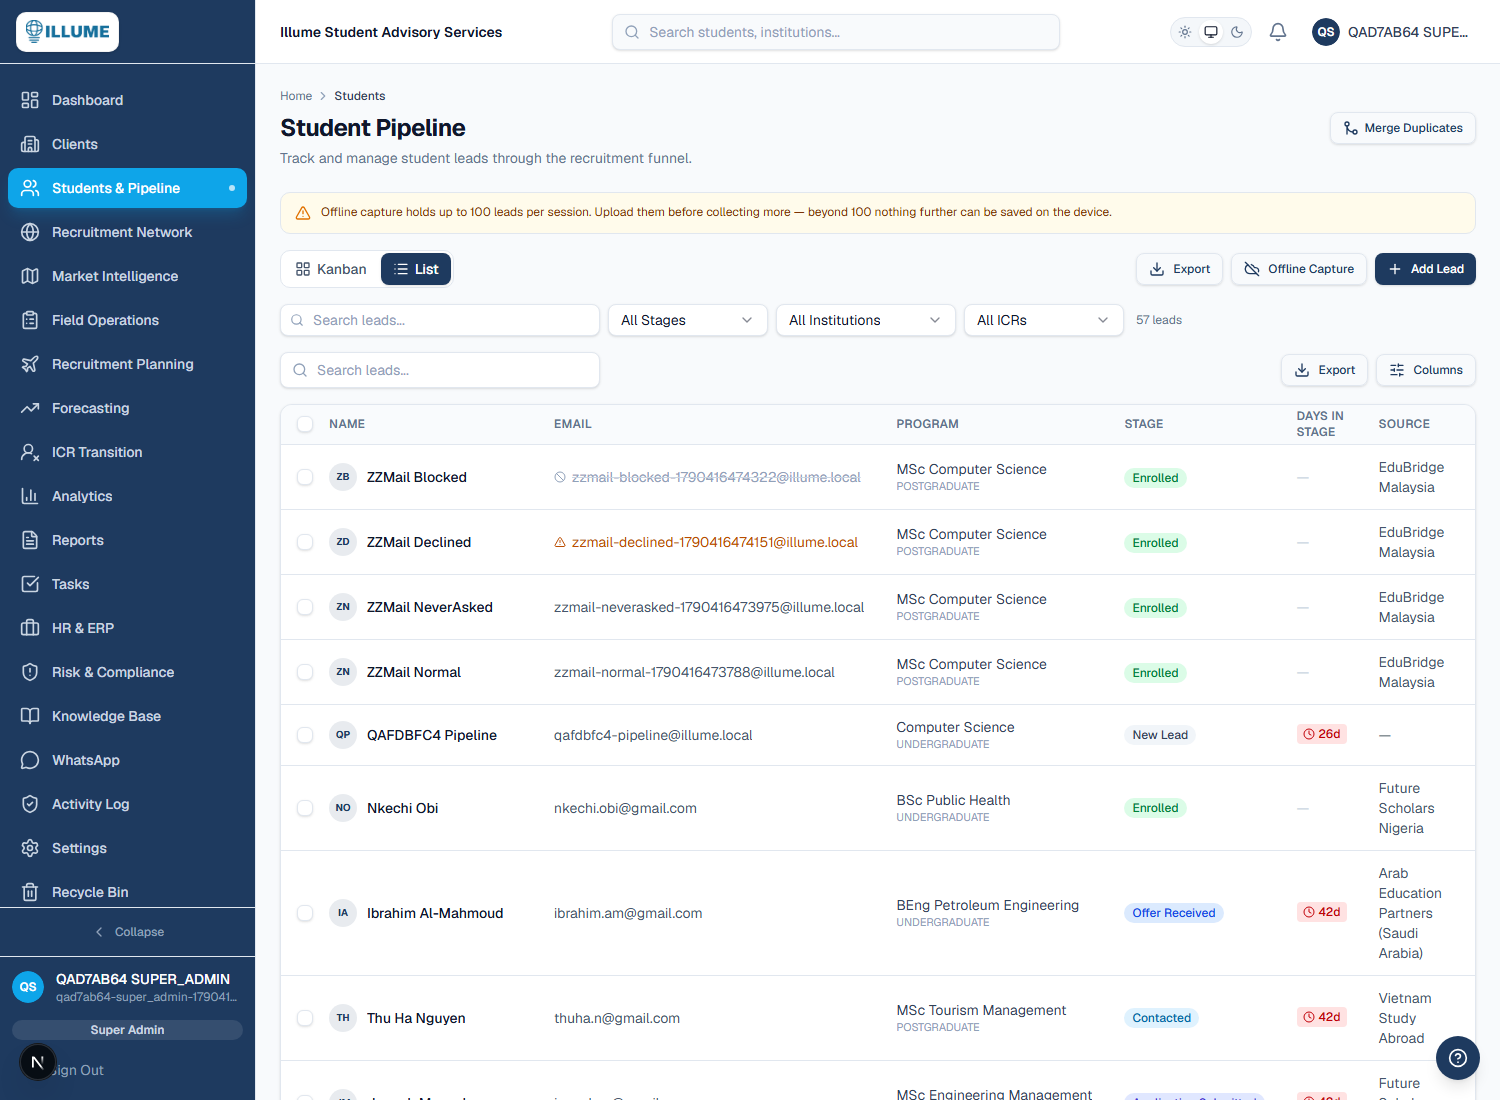
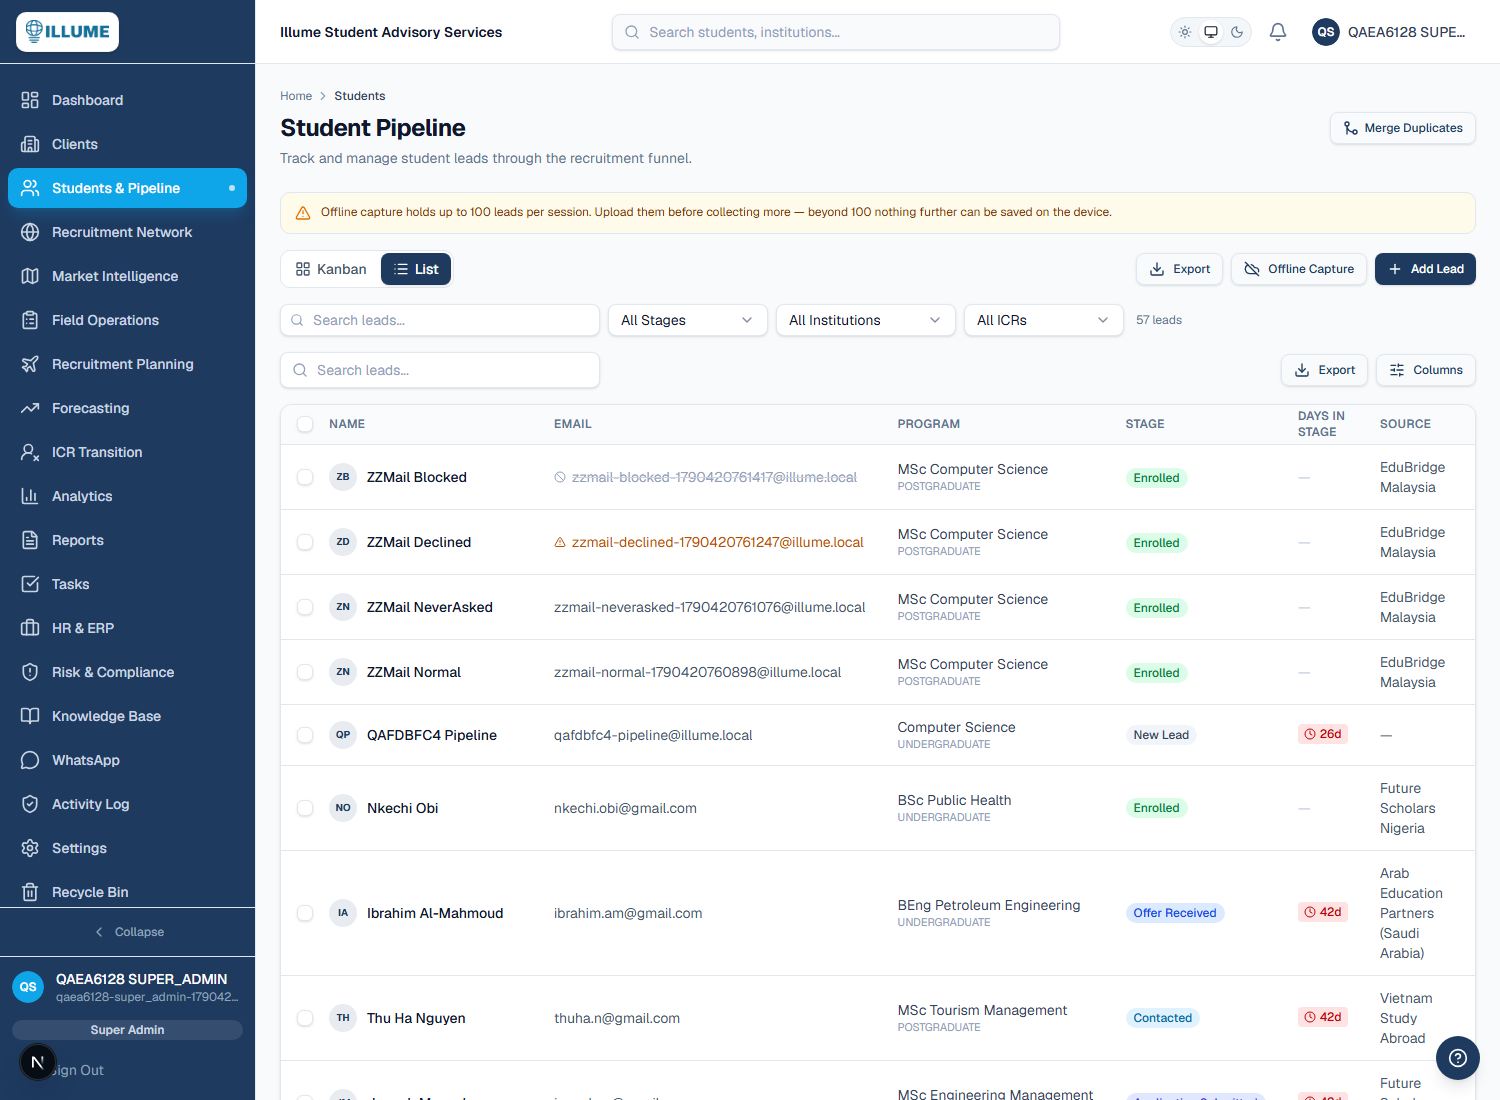
Offer the mail-client affordance everywhere an address appears (#144)
Swept every .tsx for a contactable address rendered as plain text. Eight models
carry an email; only Lead carries CASL consent. That split decides the design.

STUDENTS — the gate had a hole, and this was the priority.

/search and the analytics drill-down both rendered a student's address as plain
text. Not a breach today, because neither was clickable — but a do-not-contact
student looked identical to anyone else on those screens while appearing struck
through on /students. A rule that holds on one screen and not another is the
same as not holding. Both now use the gated component.

The drill-down needed two fields adding to /api/leads' select, which omitted
them. No disclosure risk: a caller already receiving the address is entitled to
the consent flag attached to it.

COLLEAGUES AND BUSINESS CONTACTS — new shared components/shared/email-link.tsx.

No consent gate, deliberately: none of those models carries consent data, and
under CASL an existing business relationship carries implied consent for
messages about that relationship — which is the only reason a rep holds a
university contact's or an agent's address at all.

That makes the component dangerous in the wrong place, so it takes a `kind` of
"colleague" or "business". Not decoration: it forces each call site to say
which case applies, keeps the reasoning where someone will read it, and gives a
future opt-out field an obvious home.

Wired: university contacts, partner contacts, school counsellors, the HR staff
[…]

diff --git a/components/shared/email-link.tsx b/components/shared/email-link.tsx
@@ -1,0 +1,63 @@
+import { Mail } from "lucide-react";
+
+/**
+ * A contactable address, rendered as a `mailto:` so it opens the reader's own
+ * mail client.
+ *
+ * ★ THIS COMPONENT IS FOR COLLEAGUES AND BUSINESS CONTACTS ONLY.
+ *
+ * It has NO consent gate, and that is deliberate — but it makes the component
+ * dangerous in the wrong place. A STUDENT's address must never be rendered
+ * through it. Students carry CASL consent on the record (`doNotContact`,
+ * `marketingConsent`, three-valued and asked at capture) and have their own
+ * component,
+ * `app/(dashboard)/students/[id]/_components/email-student-button.tsx`, which
+ * blocks or warns accordingly. Using this one for a Lead would silently make a
+ * do-not-contact student one click away from being contacted.
+ *
+ * `kind` exists to keep that reasoning visible at every call site rather than
+ * buried here, and to give a future consent field an obvious home:
+ *
+ *   "colleague"  another Illume user. No consent question arises at all.
+ *
+ *   "business"   a university contact, partner agent or school counsellor.
+ *                None of those models carries consent data today, and under
+ *                CASL an existing business relationship carries implied
+ *                consent for messages about that relationship — which is the
+ *                only reason a rep has the address. If any of those models
+ *                ever gains an opt-out, this is where it gets read.
+ */
+export function EmailLink({
+  email,
+  kind,
+  className,
+  showIcon = false,
+}: {
+  email: string | null | undefined;
+  /** Documents WHY no consent gate applies here. See the note above. */
+  kind: "colleague" | "business";
+  className?: string;
+  showIcon?: boolean;
+}) {
+  if (!email) {
+    return <span className={className ?? "text-slate-400 dark:text-slate-600"}>—</span>;
+  }
+
+  return (
+    <a
+      href={`mailto:${encodeURIComponent(email)}`}
+      // The row or card around this is often itself a link or a click target;
+      // without this, one click opens the record AND the mail client.
+      onClick={(e) => e.stopPropagation()}
+      title={kind === "colleague" ? `Email ${email}` : `Email ${email}`}
+      className={[
+        "inline-flex items-center gap-1.5 hover:underline",
+        "hover:text-[#1E3A5F] dark:hover:text-sky-400 transition-colors",
+        className ?? "",
+      ].join(" ")}
+    >
+      {showIcon && <Mail className="h-3 w-3 shrink-0" aria-hidden />}
+      <span className="truncate">{email}</span>
+    </a>
+  );
+}

diff --git a/app/(dashboard)/analytics/_components/drill-down-sheet.tsx b/app/(dashboard)/analytics/_components/drill-down-sheet.tsx
@@ -1,6 +1,7 @@
 "use client";
 
 import { useEffect, useState } from "react";
+import { EmailStudentLink } from "@/app/(dashboard)/students/[id]/_components/email-student-button";
 import { useRouter } from "next/navigation";
 import {
   Dialog,
@@ -23,6 +24,10 @@ interface LeadRow {
   nationality: string;
   countryOfResidence: string;
   interestedProgram: string;
+  /// Returned by /api/leads so this list can apply the same consent rules as
+  /// /students. Three-valued on marketingConsent: null means nobody asked.
+  doNotContact: boolean;
+  marketingConsent: boolean | null;
   institution?: { name: string } | null;
   assignedICR?: { name: string | null } | null;
   createdAt: string;
@@ -108,7 +113,13 @@ export function DrillDownSheet({
                         <ExternalLink className="h-3 w-3 text-slate-300 dark:text-slate-600 group-hover:text-slate-500 dark:group-hover:text-slate-400 shrink-0 transition-colors" />
                       </div>
                       <p className="text-xs text-slate-500 dark:text-slate-400 truncate mt-0.5">
-                        {lead.email} · {lead.interestedProgram}
+                        <EmailStudentLink
+                          email={lead.email}
+                          doNotContact={lead.doNotContact}
+                          marketingConsent={lead.marketingConsent}
+                        />
+                        {" · "}
+                        {lead.interestedProgram}
                       </p>
                       <p className="text-xs text-slate-400 dark:text-slate-500 mt-0.5">
                         {lead.countryOfResidence}

diff --git a/app/(dashboard)/search/page.tsx b/app/(dashboard)/search/page.tsx
@@ -1,4 +1,5 @@
 import { auth } from "@/lib/auth";
+import { EmailStudentLink } from "@/app/(dashboard)/students/[id]/_components/email-student-button";
 import { db } from "@/lib/db";
 import { redirect } from "next/navigation";
 import Link from "next/link";
@@ -111,7 +112,17 @@ export default async function SearchPage({
                   <CardContent className="p-4 flex items-center justify-between gap-3">
                     <div className="min-w-0">
                       <p className="font-medium truncate">{displayName(lead)}</p>
-                      <p className="text-xs text-muted-foreground truncate">{lead.email}</p>
+                      {/* Gated, not plain text. Search shows the same students
+                          as /students, so a do-not-contact student must look
+                          the same here — otherwise the rule holds on one screen
+                          and not the other, which is the same as not holding. */}
+                      <p className="text-xs text-muted-foreground truncate">
+                        <EmailStudentLink
+                          email={lead.email}
+                          doNotContact={lead.doNotContact}
+                          marketingConsent={lead.marketingConsent}
+                        />
+                      </p>
                       {lead.nationality && (
                         <p className="text-xs text-muted-foreground">{lead.nationality}</p>
                       )}

diff --git a/app/(dashboard)/settings/_components/users-tab.tsx b/app/(dashboard)/settings/_components/users-tab.tsx
@@ -1,6 +1,7 @@
 "use client";
 
 import { useEffect, useState } from "react";
+import { EmailLink } from "@/components/shared/email-link";
 import { DataTable } from "@/components/shared/data-table";
 import { Badge } from "@/components/ui/badge";
 import { Button } from "@/components/ui/button";
@@ -228,7 +229,9 @@ export function UsersSettingsTab() {
           </Avatar>
           <div>
             <p className="font-medium text-sm">{row.original.name}</p>
-            <p className="text-xs text-muted-foreground">{row.original.email}</p>
+            <p className="text-xs text-muted-foreground">
+            <EmailLink email={row.original.email} kind="colleague" />
+          </p>
           </div>
         </div>
       ),
@@ -337,7 +340,9 @@ export function UsersSettingsTab() {
                   <div key={u.id} className="flex items-center justify-between gap-3 p-3">
                     <div className="min-w-0">
                       <p className="text-sm font-medium text-slate-800 dark:text-slate-200">{u.name ?? u.email}</p>
-                      <p className="text-xs text-muted-foreground">{u.email}</p>
+                      <p className="text-xs text-muted-foreground">
+                  <EmailLink email={u.email} kind="colleague" />
+                </p>
                     </div>
                     <div className="flex items-center gap-3 shrink-0">
                       <span

diff --git a/app/(dashboard)/institutions/[id]/_components/institution-tabs-client.tsx b/app/(dashboard)/institutions/[id]/_components/institution-tabs-client.tsx
@@ -1,6 +1,7 @@
 "use client";
 
 import Link from "next/link";
+import { EmailLink } from "@/components/shared/email-link";
 import { Tabs, TabsContent, TabsList, TabsTrigger } from "@/components/ui/tabs";
 import { Card, CardContent, CardHeader, CardTitle } from "@/components/ui/card";
 import { Badge } from "@/components/ui/badge";
@@ -256,7 +257,9 @@ export function InstitutionTabsClient({
                     <TableRow key={contact.id}>
                       <TableCell className="font-medium">{contact.name}</TableCell>
                       <TableCell className="text-slate-600 dark:text-slate-400">{contact.title ?? "—"}</TableCell>
-                      <TableCell className="text-slate-600 dark:text-slate-400">{contact.email ?? "—"}</TableCell>
+                      <TableCell className="text-slate-600 dark:text-slate-400">
+                      <EmailLink email={contact.email} kind="business" />
+                    </TableCell>
                       <TableCell className="text-slate-600 dark:text-slate-400">{contact.phone ?? "—"}</TableCell>
                       <TableCell>
                         {contact.isPrimary && (

diff --git a/app/(dashboard)/stakeholders/_components/stakeholders-tabs.tsx b/app/(dashboard)/stakeholders/_components/stakeholders-tabs.tsx
@@ -1,6 +1,7 @@
 "use client";
 
 import * as React from "react";
+import { EmailLink } from "@/components/shared/email-link";
 import { Tabs, TabsContent, TabsList, TabsTrigger } from "@/components/ui/tabs";
 import { formatDate } from "@/lib/utils";
 import { School as SchoolIcon, Users as UsersIcon } from "lucide-react";
@@ -150,7 +151,9 @@ export function StakeholdersTabs({
                     <td className="p-2 font-medium">{c.name}</td>
                     <td className="p-2 text-muted-foreground">{c.school.name}</td>
                     <td className="p-2">{c.position ?? "—"}</td>
-                    <td className="p-2 text-muted-foreground">{c.email ?? "—"}</td>
+                    <td className="p-2 text-muted-foreground">
+                    <EmailLink email={c.email} kind="business" />
+                  </td>
                     <td className="p-2 text-muted-foreground">{c.phone ?? "—"}</td>
                     <td className="p-2 text-right">{c.influenceScore ?? "—"}</td>
                   </tr>

diff --git a/app/api/leads/route.ts b/app/api/leads/route.ts
@@ -283,6 +283,15 @@ export async function GET(req: NextRequest) {
           intakeMonth: true,
           stage: true,
           isDuplicate: true,
+          // Returned so every screen that shows a student's ADDRESS can also
+          // show whether they may be contacted. Without these the analytics
+          // drill-down renders a do-not-contact student's email looking exactly
+          // like anyone else's — the rule would hold on /students and not here,
+          // which is the same as not holding. No disclosure risk: a caller that
+          // is already receiving the address is entitled to the consent flag
+          // attached to it.
+          doNotContact: true,
+          marketingConsent: true,
           createdAt: true,
           updatedAt: true,
           lastContactedAt: true,

diff --git a/app/(dashboard)/hr/_components/employee-table.tsx b/app/(dashboard)/hr/_components/employee-table.tsx
@@ -1,6 +1,7 @@
 "use client";
 
 import { useEffect, useState } from "react";
+import { EmailLink } from "@/components/shared/email-link";
 import { useRouter } from "next/navigation";
 import { DataTable } from "@/components/shared/data-table";
 import { Badge } from "@/components/ui/badge";
@@ -131,7 +132,9 @@ export function EmployeeTable({ isHR, isSuperAdmin }: { isHR: boolean; isSuperAd
             </Avatar>
             <div>
               <p className="font-medium text-sm">{e.user.name}</p>
-              <p className="text-xs text-muted-foreground">{e.user.email}</p>
+              <p className="text-xs text-muted-foreground">
+                  <EmailLink email={e.user.email} kind="colleague" />
+                </p>
             </div>
           </div>
         );

diff --git a/app/(dashboard)/recruitment-network/partners/[id]/_components/partner-contacts-panel.tsx b/app/(dashboard)/recruitment-network/partners/[id]/_components/partner-contacts-panel.tsx
@@ -1,6 +1,7 @@
 "use client";
 
 import { useState, useTransition } from "react";
+import { EmailLink } from "@/components/shared/email-link";
 import { useRouter } from "next/navigation";
 
 interface Contact {
@@ -90,7 +91,7 @@ export function PartnerContactsPanel({
                 </div>
                 <div className="text-xs text-muted-foreground">
                   {c.role}{c.position ? ` · ${c.position}` : ""}
-                  {c.email && <> · {c.email}</>}
+                  {c.email && <> · <EmailLink email={c.email} kind="business" /></>}
                   {c.phone && <> · {c.phone}</>}
                 </div>
               </div>
